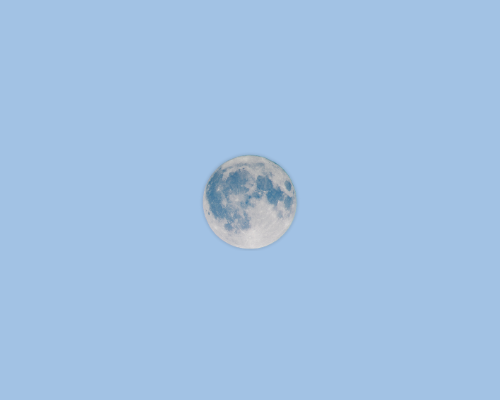
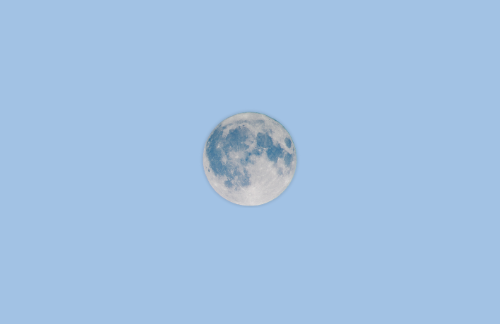
style : 썸네일 이미지 th:if 삭제

Changed region(s): [[0.39, 0.3395, 0.6, 0.5556], [0.42, 0.5864, 0.54, 0.6481], [0.54, 0.5864, 0.57, 0.6173]]

diff --git a/src/main/resources/templates/blog/index.html b/src/main/resources/templates/blog/index.html
@@ -35,14 +35,9 @@
                             <svg class="bd-placeholder-img card-img-top rounded-4" width="100%" height="180"
                                  xmlns="http://www.w3.org/2000/svg" role="img"
                                  preserveAspectRatio="xMidYMid slice" focusable="false"><title>Placeholder</title>
-                                <image th:if="${item.getThumbnailUrl() != null || #strings.isEmpty(item.getThumbnailUrl())}"
-                                       height="100%" width="100%"
-                                       preserveAspectRatio="none"
+                                <image height="100%" width="100%"
+                                       preserveAspectRatio="xMidYMid slice"
                                        th:href="@{${item.getThumbnailUrl()}}"></image>
-                                <image th:if="${item.getThumbnailUrl() == null || #strings.isEmpty(item.getThumbnailUrl())}"
-                                       height="100%" width="100%"
-                                       preserveAspectRatio="none"
-                                       th:href="@{/img/noimage01.png}"></image>
 
                             </svg>
                             <div class="card-body">
